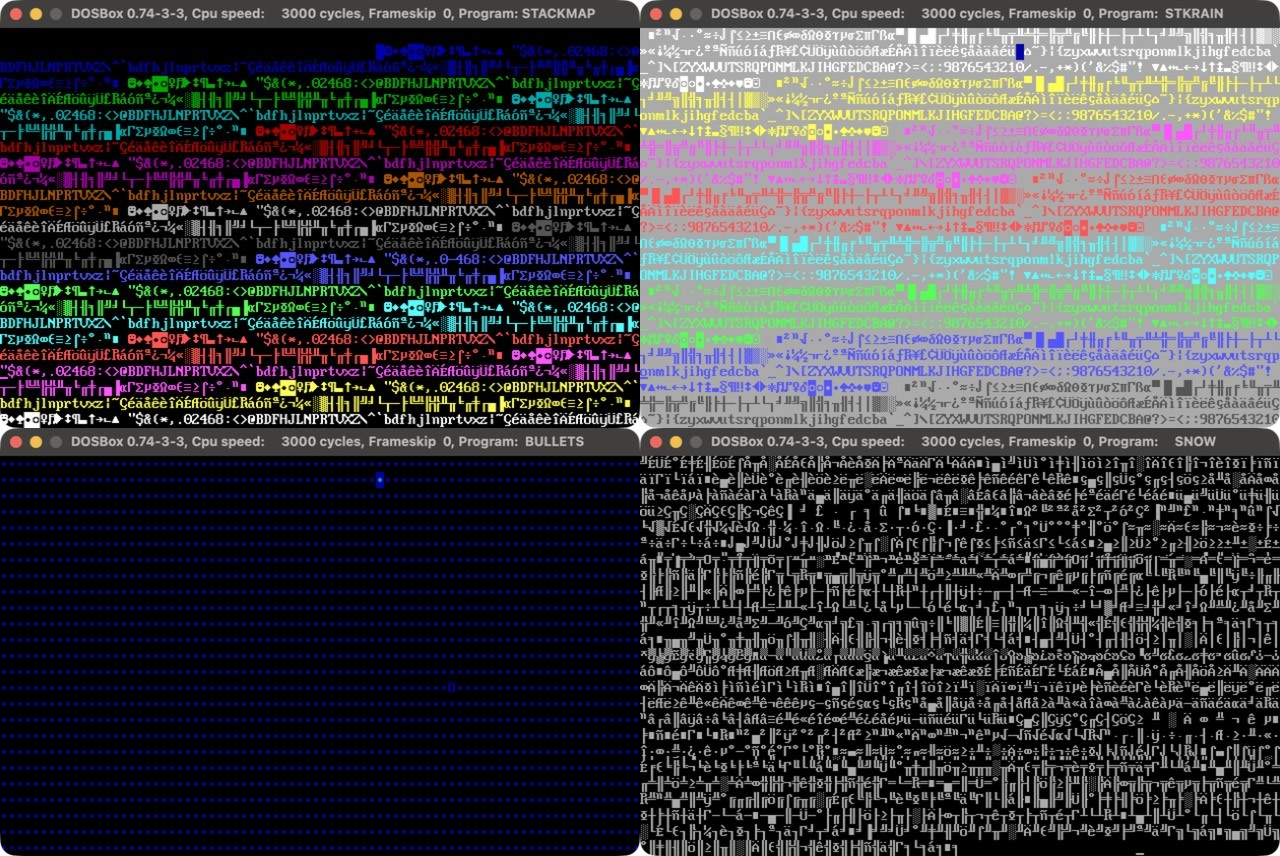
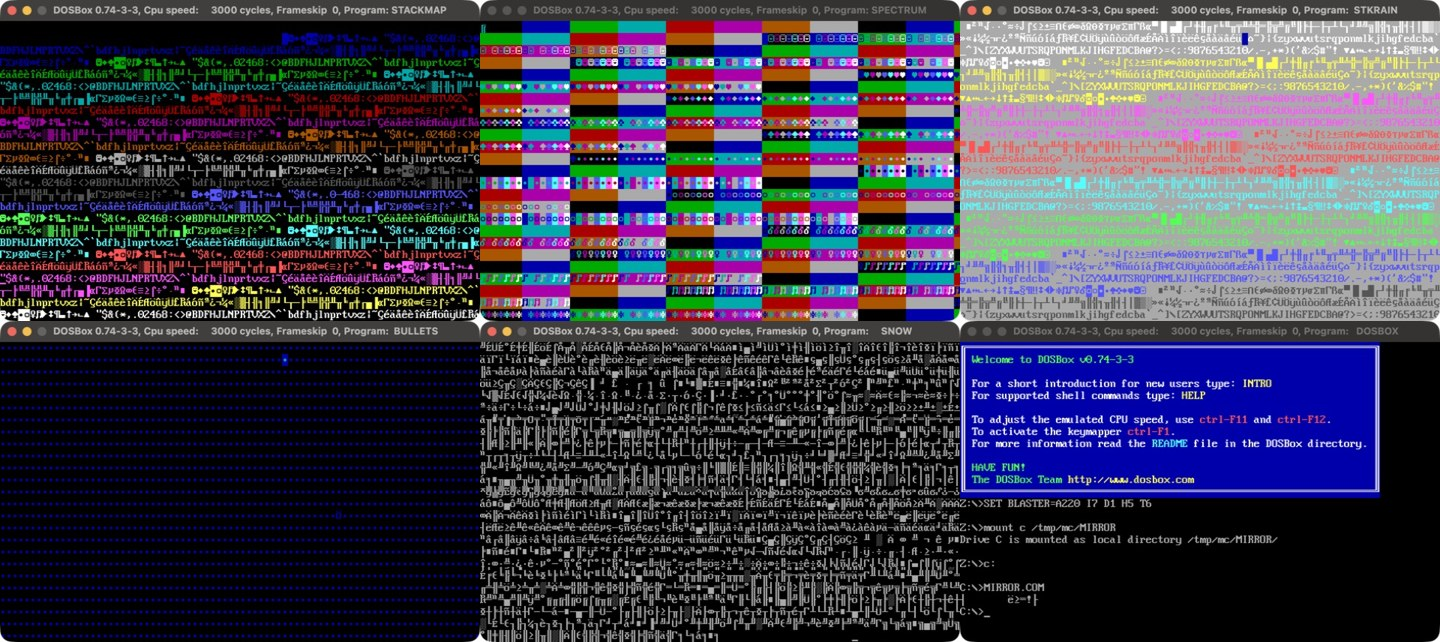
Add SPECTRUM, MIRROR and STRIPE (13 demos); real DOSBox gallery of six

diff --git a/tests/test_micro.py b/tests/test_micro.py
@@ -32,6 +32,7 @@ class Run:
         self.p61, self.pit, self.pit_step = port61, 0, pit_step
         self.tick_hook = []
         self.keys = []
+        self.dos_strings, self.exited = [], False
         if hlt_as_tick and self.com and 0xF4 in self.com:
             for off, b in enumerate(self.com):
                 if b == 0xF4: uc.mem_write(LIN + 0x100 + off, b"\x90"); self.hlt_at = LIN + 0x100 + off
@@ -62,11 +63,14 @@ class Run:
         if n == 0x16 and self.keys:
             k = self.keys.pop(0); uc.reg_write(UC_X86_REG_AX, (0x1E << 8) | ord(k))     # BIOS returns scancode:ascii
         if n == 0x29: self.chars.append(ax & 0xFF)
-        elif n == 0x20: uc.emu_stop()
+        elif n == 0x20: self.exited = True; uc.emu_stop()
+        if n == 0x21 and ax >> 8 == 9:                  # DOS print string: read DS:DX up to '$'
+            base = (uc.reg_read(UC_X86_REG_DS) << 4) + uc.reg_read(UC_X86_REG_DX)
+            buf = bytes(uc.mem_read(base, 64)); self.dos_strings.append(buf[:buf.index(b'$')])
 
     def run(self, instructions):
         done = 0
-        while done < instructions:
+        while done < instructions and not self.exited:
             n = min(1_000_000, instructions - done)
             self.uc.emu_start(self.uc.reg_read(UC_X86_REG_IP) if done else 0x100, 0xFFFF0, count=n)
             done += n
@@ -162,6 +166,32 @@ size_gate("TYPER", r, 7)
 calls = [ax for n, ax, cx, bx in r.ints if n == 0x16]
 check(len(calls) > 12 and all(ax >> 8 == 0 for ax in calls), "waits for a key with BIOS INT 16h, AH = 0 on every call (CBW clears the scan code)")
 check(r.chars[:12] == [ord(c) for c in "hello, world"], "and prints each key it gets, in order")
+
+# ---------------------------------------------------------------- MIRROR
+print("\n== MIRROR ==")
+r = Run("MIRROR.COM").run(2000)
+size_gate("MIRROR", r, 8)
+check(r.dos_strings == [r.com[:-1]], f"DOS print-string is called once, with the program's own bytes up to the '$': {r.dos_strings[0].hex() if r.dos_strings else None}")
+check(r.com[-1:] == b"$" and r.exited, "the eighth byte is the '$' terminator, and RET returns to the PSP's INT 20h: it exits cleanly")
+
+# ---------------------------------------------------------------- SPECTRUM
+print("\n== SPECTRUM ==")
+r = Run("SPECTRUM.COM").run(400_000)
+size_gate("SPECTRUM", r, 8)
+mem = bytes(r.uc.mem_read(0xB8000, 4000))
+ok_attr = all(mem[2 * c + 1] == (2 * c + 3) & 255 for c in range(1999))
+ok_char = all(mem[2 * c + 2] == (2 * c + 3) >> 8 for c in range(1999))
+check(r.uc.reg_read(UC_X86_REG_SS) == 0xB800 and (r.uc.reg_read(UC_X86_REG_SP) & 1) == 1, "the stack is the text screen and SP is odd, so every pushed word straddles two cells")
+check(ok_attr and ok_char, "each cell's colour byte is the low byte of its address and each glyph byte the high byte: a colour that changes every cell, a glyph that changes every 128")
+check(len({mem[i] for i in range(1, 4000, 2)}) >= 100, "so the screen is a wall of different colour attributes")
+
+# ---------------------------------------------------------------- STRIPE
+print("\n== STRIPE ==")
+r = Run("STRIPE.COM", hlt_as_tick=True).run(4000)
+size_gate("STRIPE", r, 8)
+writes = [(ax, cx, bx) for n, ax, cx, bx in r.ints if n == 0x10]
+check(len(writes) > 200 and all(ax >> 8 == 9 and ax & 255 == 0 and cx == 0xFF for ax, cx, bx in writes), f"BIOS write-character-and-attribute (AH = 9) of a blank, 255 cells, every time ({len(writes)} calls)")
+check(all(b - a == 1 for a, b in zip([w[2] for w in writes], [w[2] for w in writes][1:])) and r.ticks >= len(writes) - 1, "the attribute (BL) counts up by one per call, with a timer tick between calls: a new colour every 55 ms")
 
 print("\nRESULT:", "ALL PASS" if not fails else f"{len(fails)} FAILED:\n  - " + "\n  - ".join(fails))
 sys.exit(1 if fails else 0)

diff --git a/README.md b/README.md
@@ -1,13 +1,13 @@
 # UBER micro demos
 
-**Ten DOS demos, each under 9 bytes of x86 assembly: the screen painted by the stack, a blizzard of glyphs, a pulsing cursor, and four that make noise.**
+**Thirteen DOS demos, each under 9 bytes of x86 assembly: the screen painted by the stack, a program that prints itself, a blizzard of glyphs, a pulsing cursor, and four that make noise.**
 
 [![CI](https://github.com/djayuffe/uber-micro-demos/actions/workflows/ci.yml/badge.svg)](https://github.com/djayuffe/uber-micro-demos/actions/workflows/ci.yml)
 
-![The four full-screen demos in DOSBox: STACKMAP, STKRAIN, BULLETS and SNOW](docs/gallery.jpg)
+![Six of the demos in DOSBox: STACKMAP, SPECTRUM, STKRAIN, BULLETS, SNOW and MIRROR](docs/gallery.jpg)
 
-*Real DOSBox captures. Top: STACKMAP, STKRAIN. Bottom: BULLETS, SNOW. (The moving blue cell in STKRAIN and BULLETS is the stack
-pointer writing the screen.)*
+*Real DOSBox captures. Top: STACKMAP, SPECTRUM, STKRAIN. Bottom: BULLETS, SNOW, MIRROR (the line under the command, which is
+the program's own machine code). The moving blue cell in STKRAIN and BULLETS is the stack pointer writing the screen.*
 
 None of them sets a video mode, loads a file or allocates memory. They use what DOS hands a `.COM` for
 free (`AX = BX = 0`, `SI = 100h`, text mode 3, the BIOS and the PC's hardware) and bend it:
@@ -17,8 +17,11 @@ free (`AX = BX = 0`, `SI = 100h`, text mode 3, the BIOS and the PC's hardware) a
 | **STACKMAP** | 7 | the **stack is the screen**, and every cell shows its own address: a map of video memory |
 | **STKRAIN** | 8 | the stack is the screen again, and a counter pours down it: a rainbow of every character |
 | **BULLETS** | 7 | infinite **recursion** with the stack on the screen: every `CALL` pushes a return address, and the screen fills with blue bullets |
+| **SPECTRUM** | 8 | STACKMAP with the stack **one byte off**: every word straddles two cells, so the colour changes every cell and the glyph every 128: a test card |
 | **SNOW** | 8 | a **blizzard** of random glyphs: the timer's fast counter, forced into codes 128-255 |
 | **BREATH** | 7 | the text **cursor pulses**: its shape changes every timer tick |
+| **STRIPE** | 8 | a three-row **colour band** at the cursor, a new colour every timer tick |
+| **MIRROR** | 8 | a program that **prints its own machine code**, then exits cleanly |
 | **BUZZ** | 6 | flips the **PC speaker** as fast as the CPU can: a buzz whose pitch is the CPU speed |
 | **STATIC** | 6 | **white noise**: the timer's fastest-changing bits drive the speaker |
 | **TICKER** | 6 | a **metronome**: the speaker bits step 1, 2, 3, 0 on every 55 ms tick |
@@ -32,12 +35,12 @@ Download the `.COM` files from the [latest release](../../releases/latest) and r
 
 ```sh
 ./build.sh                  # NASM: assembles all ten and enforces each size budget
-./run-dosbox.sh stkrain   # any of: stackmap stkrain bullets snow breath buzz static ticker geiger typer
+./run-dosbox.sh stkrain   # any of: stackmap spectrum stkrain bullets snow breath stripe mirror buzz static ticker geiger typer
 ```
 
 Needs [NASM](https://www.nasm.us/) (macOS: `brew install nasm`, `brew install --cask dosbox`).
 
-**They never exit** (there is no room for the keyboard check): close DOSBox, or press Ctrl+F9 in it.
+**All but MIRROR never exit** (there is no room for the keyboard check): close DOSBox, or press Ctrl+F9 in it.
 **The launcher pins DOSBox to about 3 MIPS** (`cycles=3000` in `DOSBOX.CONF`). These demos have no room for
 timing code, so their speed *is* the CPU's speed: at `cycles=max`, STKRAIN, SNOW, BUZZ and STATIC are an
 unreadable blur or an inaudible whine. BREATH, TICKER and GEIGER pace themselves with `HLT`.
@@ -56,6 +59,18 @@ screen, and as `SP` counts down and wraps around the 64 KB segment it walks acro
 - **STKRAIN**: `inc ax` / `push ax` writes a counter; character = low byte, colour = high byte.
 - **BULLETS**: `call` to itself. The return address `0107h` is pushed over and over: character `07h` (a bullet),
   colour `01h` (blue).
+
+**SPECTRUM**: STACKMAP plus one `dec sp`. With `SP` odd, each pushed word lands across two cells: its low byte (a value
+that changes every cell) becomes a *colour attribute*, and its high byte (it changes every 128 cells) the *glyph* of the
+next cell. The roles of the two bytes swap, and the address map becomes a wall of colour with a new glyph every row.
+
+**MIRROR**: DOS function 9 prints the `$`-terminated string at `DS:DX`. `mov dx,si` points it at the program itself
+(DOS gives `SI = 0100h`), and the eighth byte of the file is the `$`, so it prints its own machine code (`B4 09 89 F2 CD
+21 C3`, as `┤`, a tab, `ë≥═!├`) and then `ret`s: the word at the top of the stack is 0, which is the PSP's `INT 20h`.
+It is the only demo that exits.
+
+**STRIPE**: BIOS `INT 10h` AH = 9 writes character `AL` with attribute `BL` `CX` times without moving the cursor.
+`AL = 0` is a blank, `CX = 00FFh` is 255 cells (three rows), and `inc bx` plus a `HLT` give a new colour every tick.
 
 **SNOW**: `in al,40h` reads the timer's counter (it changes every 0.84 us, so it is a free random number), `or al,80h`
 forces it into 128-255 so there are no control codes to disturb the screen, and `int 29h` ("DOS fast console
@@ -80,13 +95,13 @@ into `AX`, so `AH` is 0 again for the next wait (ASCII keys are below 128, and f
 `.COM` (`AX = BX = 0`, `CX = 00FFh`, `SI = 0100h`, `DI = SP = FFFEh`), with the BIOS keyboard, the timer
 counter and the speaker port emulated. It checks that each is under 9 bytes and within its budget, never touches
 memory outside video memory and its own segment, and then its behaviour: STACKMAP's cells each hold their own
-address; STKRAIN's hold consecutive counter values; BULLETS fills the screen with `0107h`; SNOW prints the counter it
+address; SPECTRUM's colour and glyph bytes are the low and high bytes of the cell address; MIRROR prints exactly its own bytes and exits; STRIPE writes 255 blanks with a counting attribute once per tick; STKRAIN's hold consecutive counter values; BULLETS fills the screen with `0107h`; SNOW prints the counter it
 read, with bit 7 forced on; BREATH sets the cursor shape once per tick, counting up; BUZZ writes 2, 0, 2, 0, ...;
 STATIC and GEIGER write exactly the counter they just read (all four gate/cone combinations occur, GEIGER once per
 tick); TICKER steps the bits once per tick; TYPER echoes the keys it is given. CI runs it on every push; a
 `vX.Y.Z` tag publishes a release.
 
-**Run live in DOSBox**: STACKMAP, STKRAIN, BULLETS and SNOW (captured above), BREATH (the cursor visibly changes
+**Run live in DOSBox**: STACKMAP, SPECTRUM, STKRAIN, BULLETS, SNOW and MIRROR (captured above), STRIPE (the band changes colour), BREATH (the cursor visibly changes
 shape between frames) and TYPER (it echoes one character per key; DOSBox's synthetic key injection sent them all as
 `a`, which is the injection tool, not TYPER). **What nothing here can tell you**: how BUZZ, STATIC, TICKER and
 GEIGER *sound* (the tests check the exact port writes, not the audio), or how any of it looks on a real VGA.

diff --git a/CHANGELOG.md b/CHANGELOG.md
@@ -3,6 +3,16 @@
 Pushing a `vX.Y.Z` tag runs `.github/workflows/release.yml`, which builds, tests and attaches the ten
 `.COM` files to a GitHub release using that version's section below.
 
+## [1.2.0] - 2026-10-10
+
+### Added
+- **SPECTRUM** (8 bytes): STACKMAP with `dec sp`, so every pushed word straddles two screen cells and the address map
+  becomes a wall of colour.
+- **MIRROR** (8 bytes): prints its own machine code with DOS function 9 (the eighth byte of the file is the `$`) and exits
+  cleanly. The only demo that does.
+- **STRIPE** (8 bytes): a three-row colour band, a new colour every timer tick (BIOS write-attribute with `CX = 255`).
+- All three checked live in DOSBox; the README gallery now shows six real captures.
+
 ## [1.1.0] - 2026-10-10
 
 ### Changed
